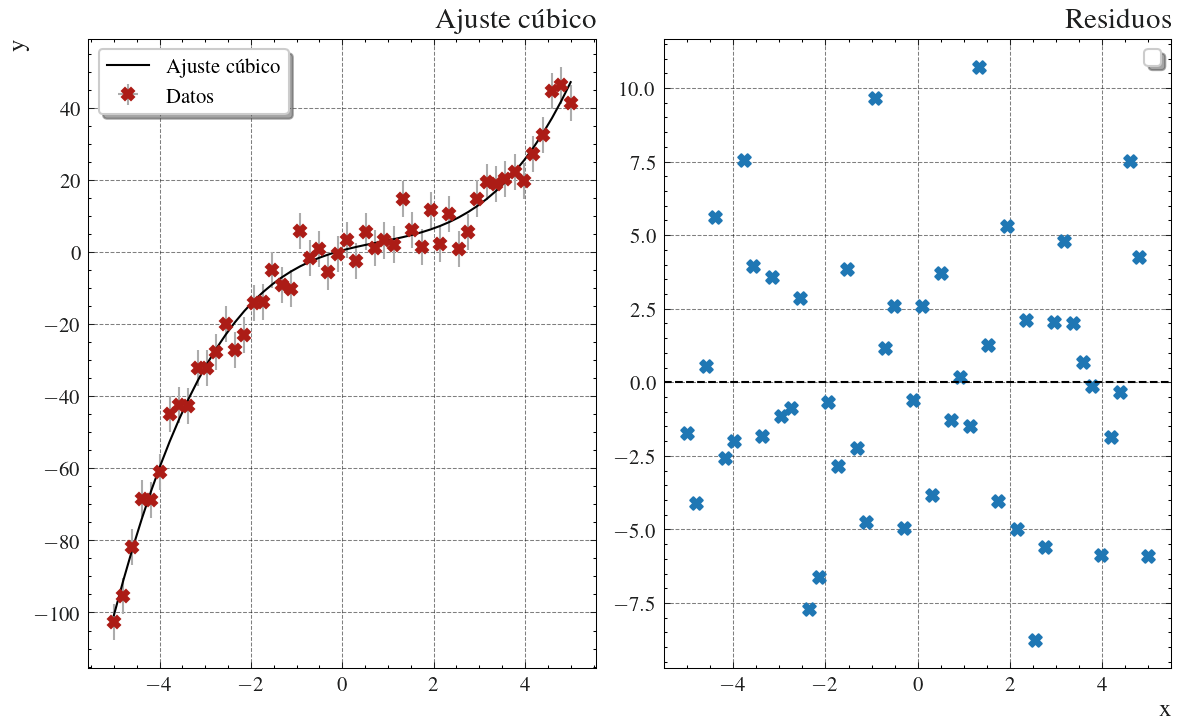
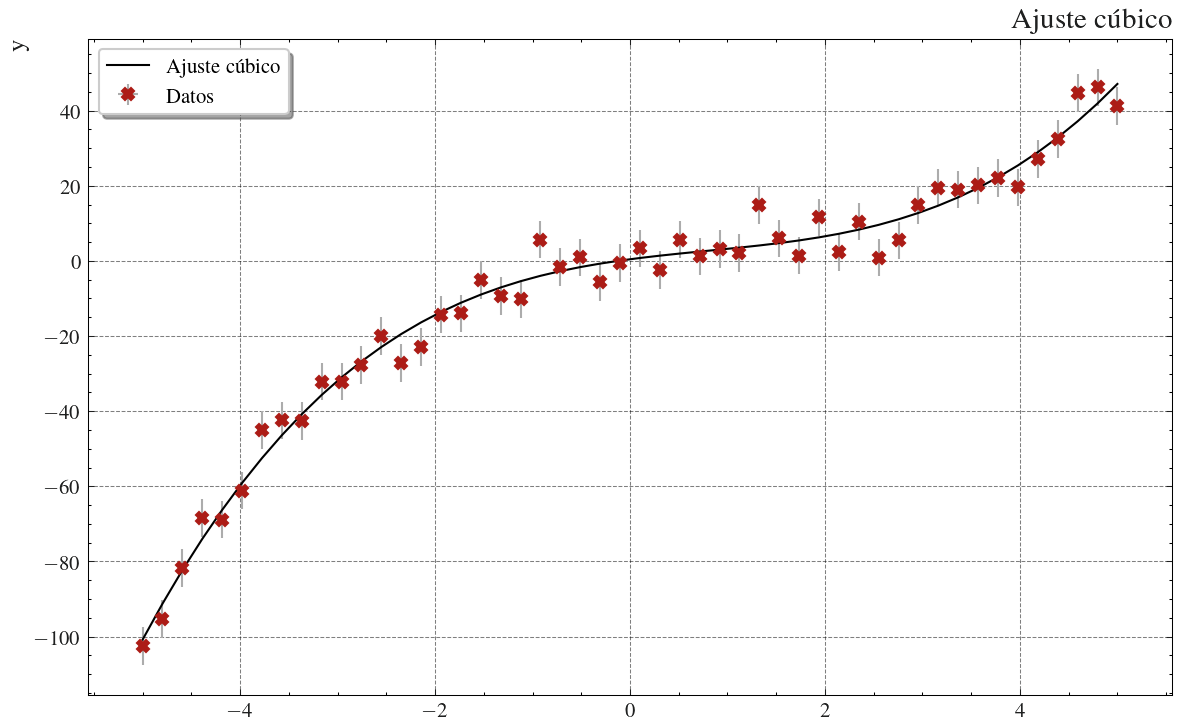
cambios leves de main  y más gráficos de ejemplo

diff --git a/main.py b/main.py
@@ -83,20 +83,17 @@ print(resultado)
 # ================================
 # 5. Graficar datos y ajuste
 # ================================
-graf = G(columnas=2)
-fig, axes = graf.crear(titulo=["Ajuste cúbico", "Residuos"], eje_x=[None, "x"], eje_y=["y", None])
+graf = G(columnas=1)
+fig, ax = graf.crear(titulo=["Ajuste cúbico", "Residuos"], eje_x=[None, "x"], eje_y=["y", None])
 
 # Graficar datos con incertezas
-axes[0].errorbar(
+ax.errorbar(
     nv(X), nv(Y), xerr=sd(X), yerr=sd(Y),
     fmt="X", c="#AC1C16", ecolor="#ACACAC",
     label="Datos"
 )
 # Graficar ajuste cúbico
 y_fit = F.polinomio(nv(resultado.parametros), nv(X))
-axes[0].plot(nv(X), y_fit, label="Ajuste cúbico")
-
-axes[1].scatter(nv(X), resultado.residuos, c="#1F77B4", marker="X")
-axes[1].axhline(0, color="k", linestyle="--")
+ax.plot(nv(X), y_fit, label="Ajuste cúbico")
 
 graf.render(ruta_guardado="Ajuste cúbico.png", mostrar=False)
